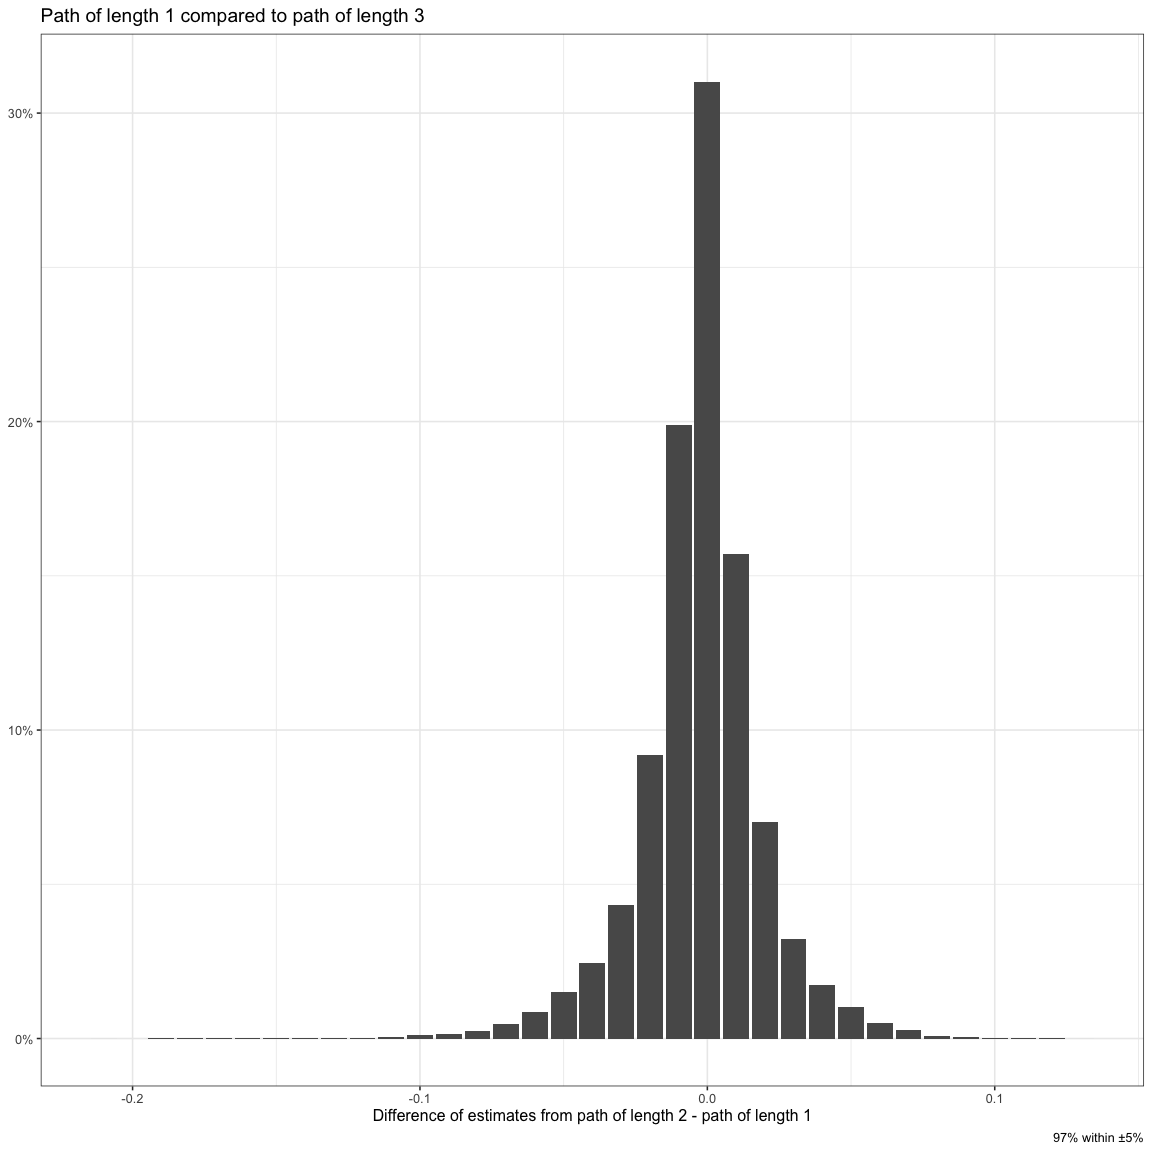
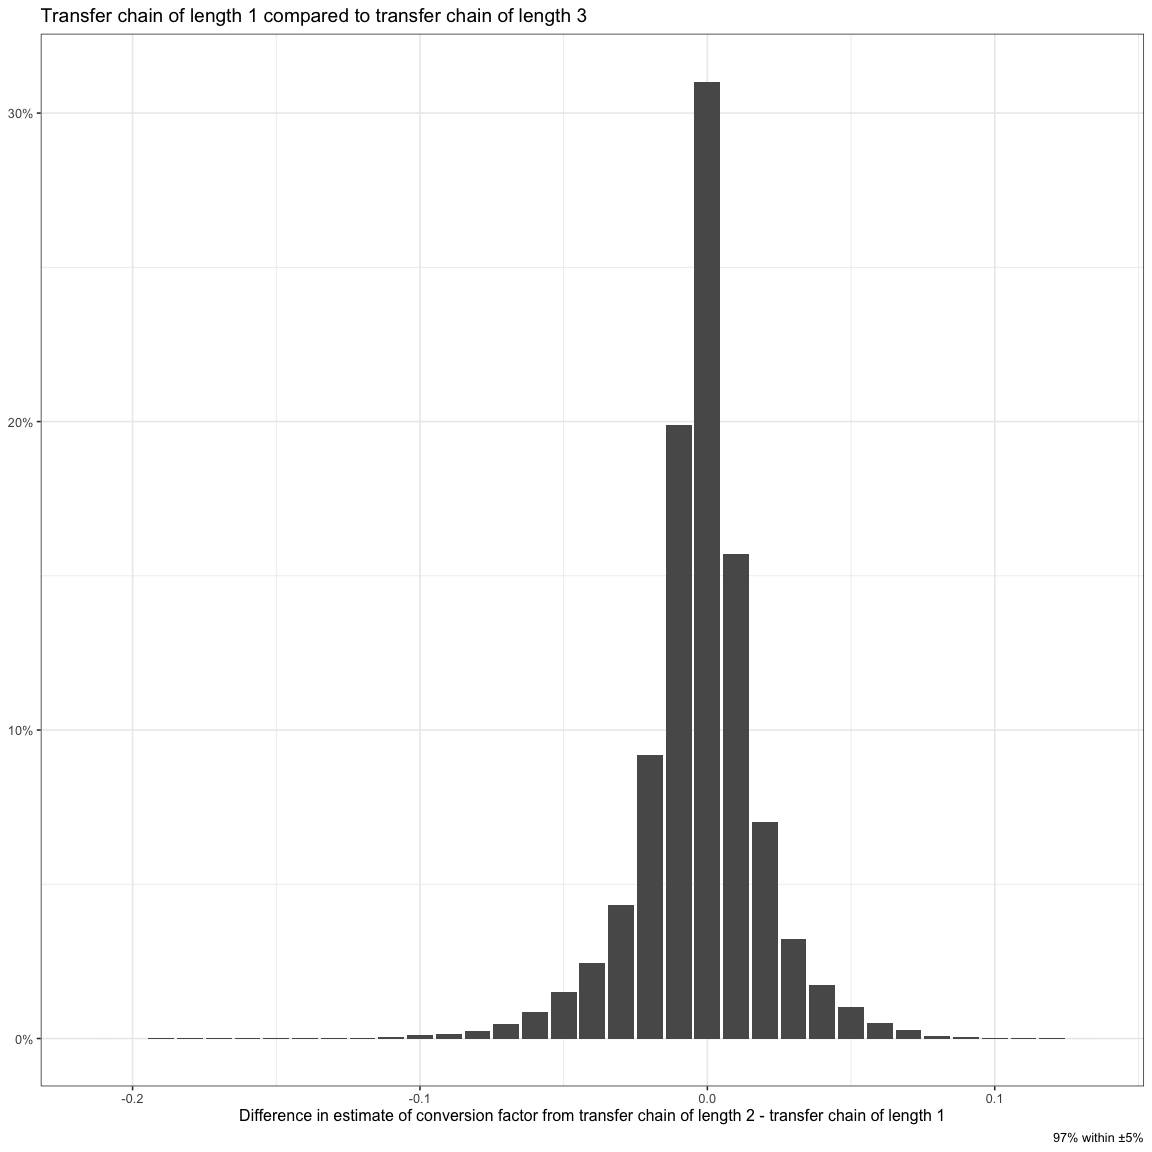
Some wording changes

diff --git a/README.md b/README.md
@@ -21,7 +21,7 @@ action.
 \[@canzhiye\](<https://twitter.com/canzhiye>) has fortunately computed
 this for all the players playing in a bunch of leagues for the last some
 years.
-\[@TonyElHabr\](<https://twitter.com/TonyElHabr/status/1405946557237796871>)
+\[@TonyElHabr\](<https://tonyelhabr.rbind.io/post/soccer-league-strength/>)
 recently used it in a model to solve the same problem as me which is
 where this discussion started and he was kind enough to help me get
 access to the data to try my approach on it too. We have different
@@ -135,11 +135,12 @@ later.
 ## Model Evaluation
 
 One way to measure the quality of the calibration is to evaluate the
-difference in conversion factors on various paths between the same
-leagues, for eg. how different is the value of the Ligue 1 to EPL
-conversion factor compared to the Ligue 1 to La Liga conversion factor
-\* La Liga to EPL conversion factor. A well calibrated model should have
-a very low difference between the two.
+difference in conversion factors on various ways of moving between the
+same leagues, which I’ll call transfer chains from here on. For eg. how
+different is the value of the Ligue 1 to EPL conversion factor compared
+to the Ligue 1 to La Liga conversion factor \* La Liga to EPL conversion
+factor. A well calibrated model should have a very low difference
+between the two.
 
 Another way to measure the quality of the calibration is to evaluate how
 far the calibrated conversion factors are from the observed median
@@ -217,10 +218,10 @@ recency also as an input in how we decide confidence in the model.
 Let us look at the other criteria of comparing the conversion factor
 between two leagues based on the various ways in which players could
 move between those two leagues. We will do this by comparing the
-conversion factor from league a to league b with the conversion factors
-of all paths which involved having up to two other leagues in between
-league a and b, eg. league a -&gt; b compared to league a -&gt; c -&gt;
-b, league a -&gt; c -&gt; d -&gt; b, etc.
+conversion factor directly from league a to league b with the combined
+conversion factor of all other ways in which a player could move between
+league a and league b, eg. league a -&gt; b compared to league a -&gt; c
+-&gt; b, league a -&gt; c -&gt; d -&gt; b, etc.
 
 ![](README_files/figure-markdown_strict/graph_length_2_viz-1.png)
 
@@ -228,7 +229,7 @@ b, league a -&gt; c -&gt; d -&gt; b, etc.
 
 The differences are usually very low which means our model was able to
 arrive at a solution where all the links were consistent with each other
-and in terms of independence of the path followed between two leagues.
+and in terms of independence of the transfer chain between two leagues.
 
 ## What Next
 
